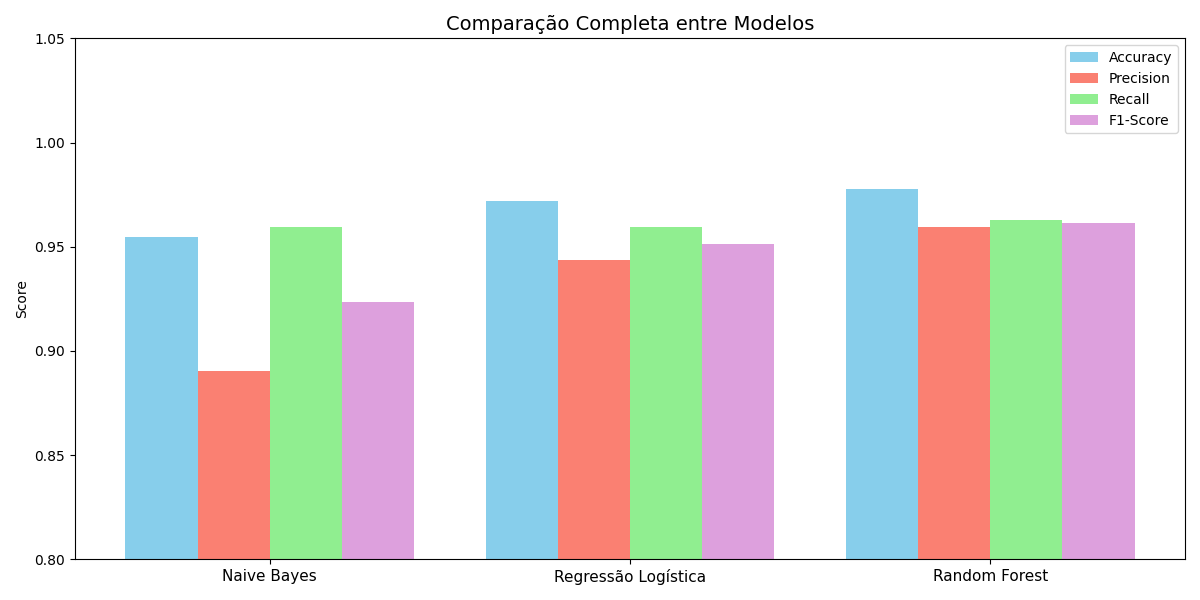
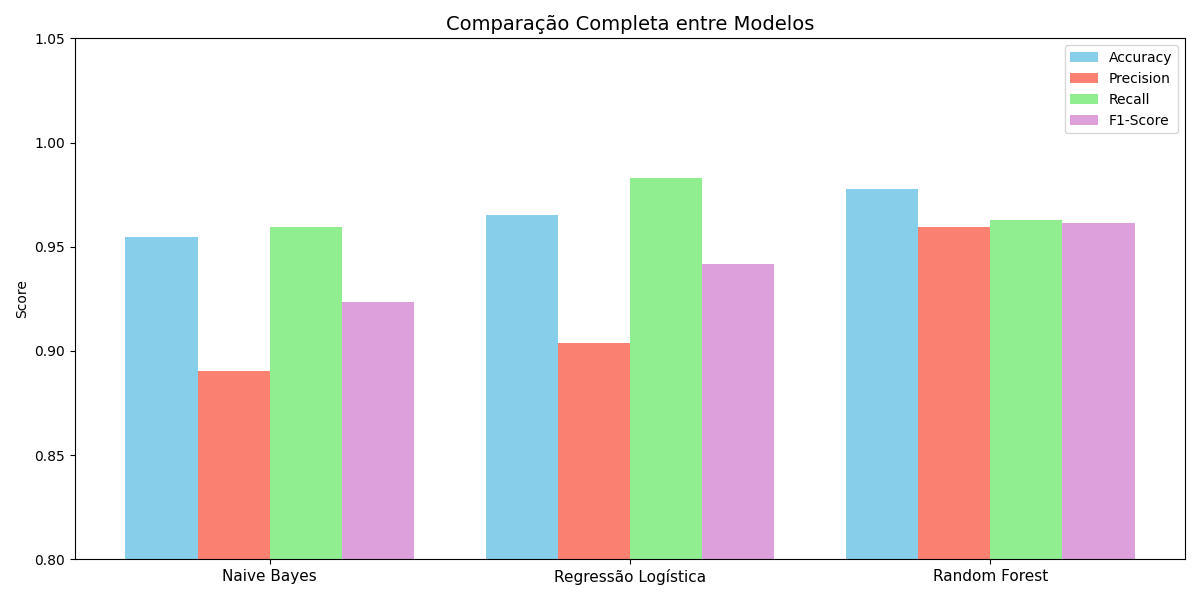
agora realmente ta finalizado

diff --git a/src/train.py b/src/train.py
@@ -3,6 +3,8 @@ import joblib
 from sklearn.naive_bayes import MultinomialNB
 from sklearn.linear_model import LogisticRegression
 from sklearn.ensemble import RandomForestClassifier
+from sklearn.preprocessing import StandardScaler
+from sklearn.pipeline import Pipeline
 from data_loader import carregar_e_limpar_dados, separar_dados
 
 def treinar_modelos(X_treino, y_treino):
@@ -11,9 +13,13 @@ def treinar_modelos(X_treino, y_treino):
     modelo_nb = MultinomialNB()
     modelo_nb.fit(X_treino, y_treino)
 
-    # Treina a Regressão Logística
-    print("-> Ensinando o modelo de Regressão Logística...")
-    modelo_lr = LogisticRegression(max_iter=1000)  # max_iter evita erro de convergência
+    # Treina a Regressão Logística com StandardScaler dentro de um Pipeline
+    # O scaler normaliza os dados antes do modelo, melhorando a convergência
+    print("-> Ensinando o modelo de Regressão Logística (com normalização)...")
+    modelo_lr = Pipeline([
+        ('scaler', StandardScaler()),
+        ('lr', LogisticRegression(max_iter=1000))
+    ])
     modelo_lr.fit(X_treino, y_treino)
 
     # Treina o Random Forest, conjunto de várias árvores de decisão

diff --git a/src/predict.py b/src/predict.py
@@ -3,11 +3,11 @@ import pandas as pd
 
 def simular_previsao(indice_amostra=0):
 
-    # Carrega o modelo de Regressao Logistica 
-    modelo = joblib.load("../results/models/modelo_lr.pkl")
+    # Carrega o modelo de Regressao Logistica (Pipeline com scaler incluso)
+    modelo = joblib.load("results/models/modelo_lr.pkl")
     
     # Carrega a base de dados de teste isolada na etapa de treinamento
-    X_teste, y_teste = joblib.load("../results/models/dados_teste.pkl")
+    X_teste, y_teste = joblib.load("results/models/dados_teste.pkl")
     
     # Extrai uma unica linha com base no indice fornecido
     dados_email = X_teste.iloc[[indice_amostra]]

diff --git a/src/evaluate.py b/src/evaluate.py
@@ -75,6 +75,7 @@ if __name__ == "__main__":
     print("=======================================")
 
     # Carrega os modelos salvos na etapa de treinamento
+    # então o scaler é aplicado automaticamente no predict()
     modelo_nb = joblib.load("results/models/modelo_nb.pkl")
     modelo_lr = joblib.load("results/models/modelo_lr.pkl")
     modelo_rf = joblib.load("results/models/modelo_rf.pkl")